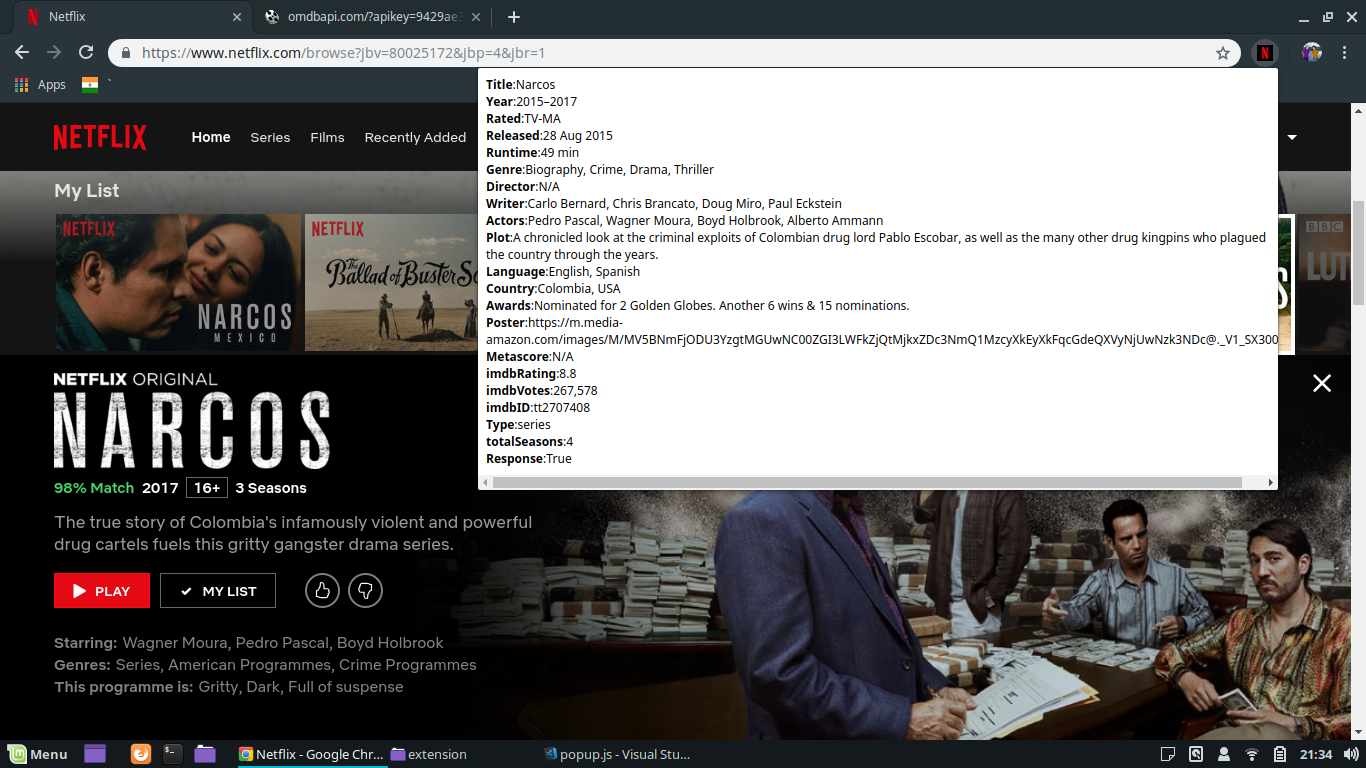
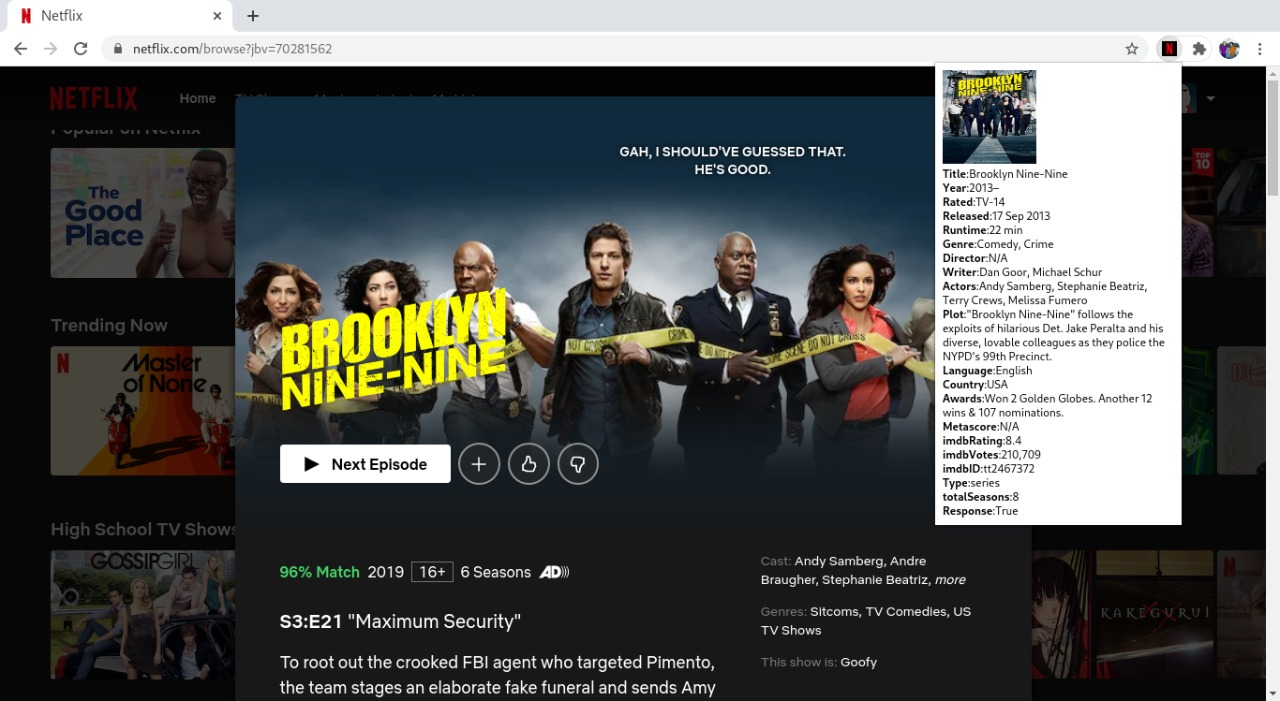
Revamp extension

diff --git a/extension/popup.js b/extension/popup.js
@@ -3,38 +3,41 @@ window.browser = (function () {
       window.browser ||
       window.chrome;
   })();
-function get_url(){
+
+function getUrl(){
     browser.tabs.query({active: true, currentWindow: true},postData)
 }
 
 function postData(tabs) {
-    //to obtain movie name,year
-    input = tabs[0].url;
-    var scrape = new XMLHttpRequest();
-    scrape.onreadystatechange = function () {
-        if (this.readyState == 4 && this.status == 200) {
-            let dummy = $(this.responseText);
-            let name = $(dummy).find('img.logo').attr('alt');
-            console.log(name);
-            //Netflix year is last updates year of movie, not what OMDB has.
-            //var year = $('.year',dummy).text();
-            url = "http://www.omdbapi.com/?apikey=9429ae3b&t=" + name; //+"&y="+year;
-            //to get details from OMDB api
-            var xhttp = new XMLHttpRequest();
-            xhttp.onreadystatechange = function () {
-                if (this.readyState == 4 && this.status == 200) {
-                    stuff = JSON.parse(this.responseText);
-                    Object.keys(stuff).forEach(function (key) {
-                        if (key !== "Ratings")
-                            document.getElementById('status').innerHTML += "<b>" + key + "</b>" + ":" + stuff[key] + "<br>";
-                    });
-                }
-            };
-            xhttp.open("GET", url, true);
-            xhttp.send();
-        }
-    };
-    scrape.open("GET", input, true);
-    scrape.send();
+    url = tabs[0].url;
+    
+    // get title of current page for movie name
+    fetch(url,{method: "GET", credentials:"omit"})
+    .then(res => {
+        return res.text();
+    })
+    .then((data) => {
+        let page = $(data);
+        let title = $(page).filter('title').text().split("|")[0].trim();
+
+        //to get details from OMDB api
+        OMDBAPIUrl = "http://www.omdbapi.com/?apikey="+OMDB_API_KEY+"&t=" + title;
+        fetch(OMDBAPIUrl, {method:"GET"})
+        .then(res => {return res.json()})
+        .then(data => {
+            document.getElementById('result').innerHTML += '<img src="'+data["Poster"]+'" height="100px" width="100px" /><br>'
+            Object.keys(data).forEach(function (key) {
+                if (key !== "Ratings" && key !== "Poster")
+                    document.getElementById('result').innerHTML += "<b>" + key + "</b>" + ":" + data[key] + "<br>";
+            });
+        })
+        .catch(error => {
+            console.log(error);
+        })
+    })
+    .catch((error) => {
+        console.log( error );
+    })    
 }
-get_url();
+
+getUrl();

diff --git a/extension/popup.html b/extension/popup.html
@@ -4,9 +4,10 @@
     <meta charset="utf-8">
     <title>IMDB Rating</title>
     <script src="jquery-3.3.1.min.js"></script>
+    <script src="env.js"></script>
     <script src="popup.js"></script>
   </head>
   <body>
-    <div id="status"></div>
+    <div id="result" style="width: 50vh"></div>
   </body>
 </html>

diff --git a/extension/env.example.js b/extension/env.example.js
@@ -1,0 +1,1 @@
+OMDB_API_KEY = "<INSERT_YOUR_OMDB_API_KEY_HERE>";

diff --git a/README.md b/README.md
@@ -4,13 +4,15 @@ A browser extension that works on Google Chrome, Mozilla Firefox to fetch [OMDB]
 
 ### How to install: 
 1) Clone the repository.
-2) For Chrome, navigate to chrome://extensions.
-3) For firefox, goto about:debugging.
-3) Click on load unpacked extension, select directory named 'extension' for Chrome, select manifest.json file for Firefox.
+2) Get an API key at http://www.omdbapi.com/apikey.aspx
+3) Copy env.example.js to env.js and add your API Key
+4) For Chrome, navigate to chrome://extensions.
+5) For firefox, goto about:debugging.
+6) Click on load unpacked extension, select directory named 'extension' for Chrome, select manifest.json file for Firefox.
 
 ### Usage:
-1) Navigate to netflix, click on show/ hover over it to get short preview.
-Now press the extension (with Netflix logo, to get the details)
+1) Navigate to netflix, click on show/ hover over it to get the short preview.
+Now, click the extension (with Netflix logo, to get the details)
 
 
 ### To-Do:
